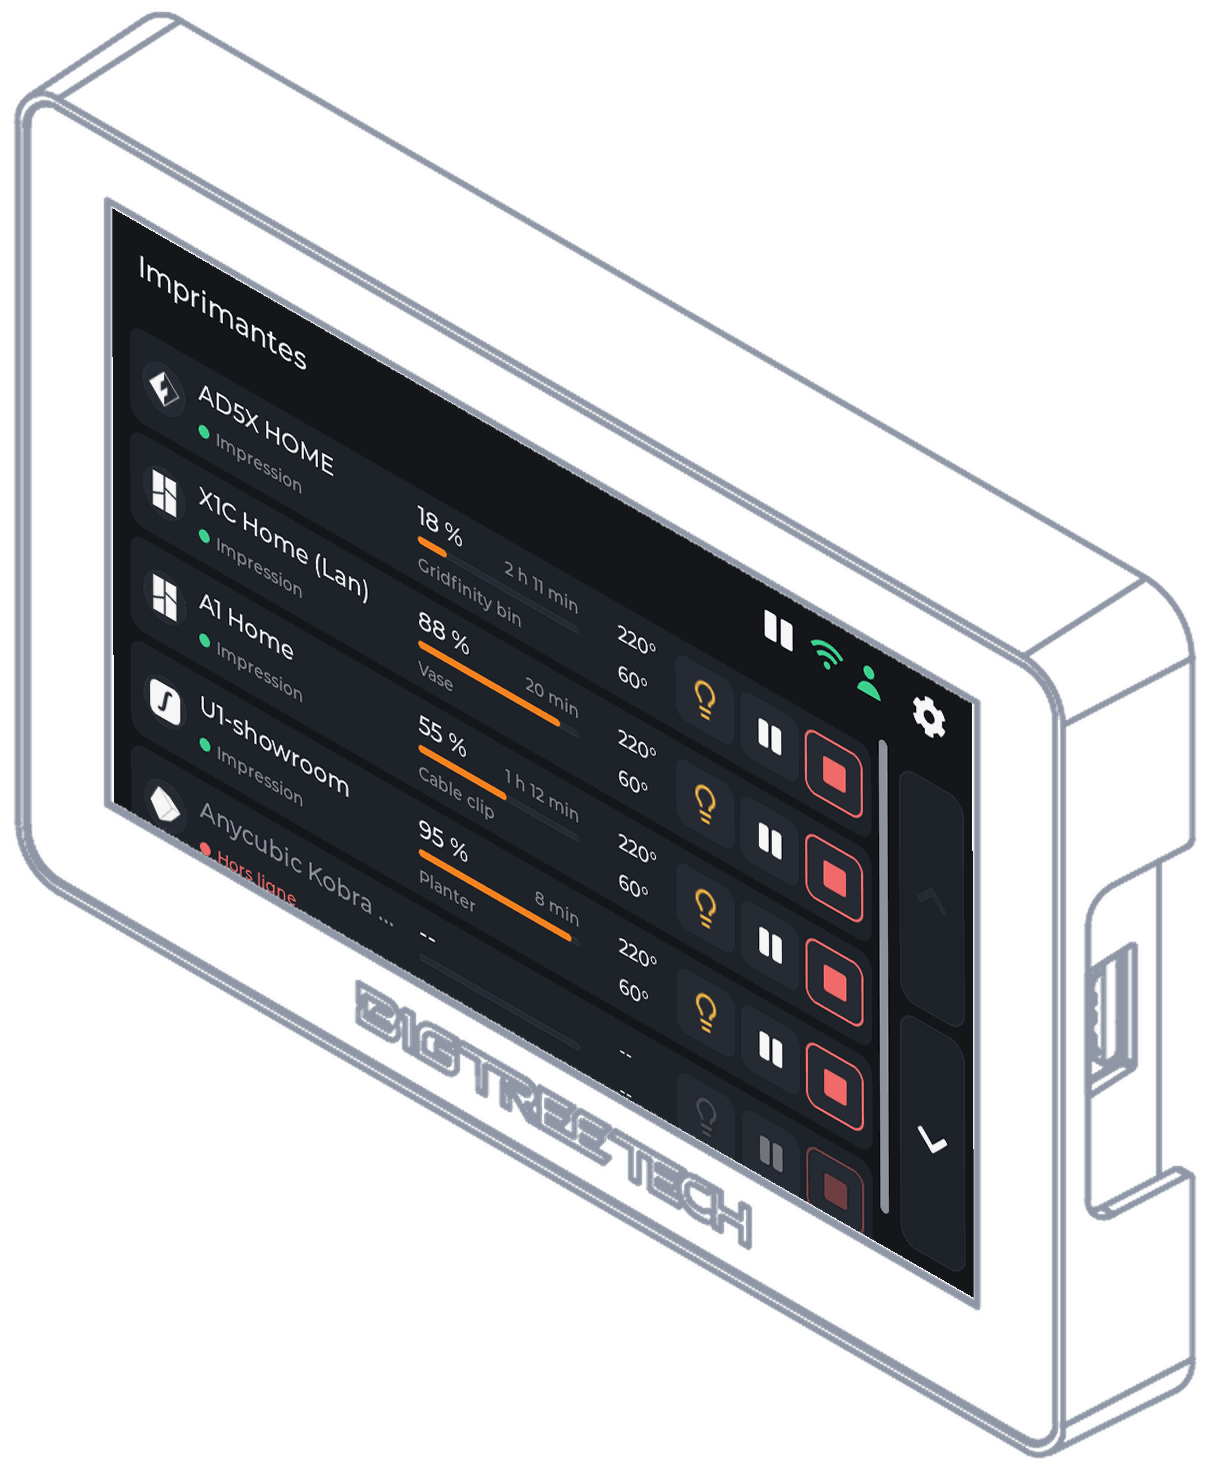
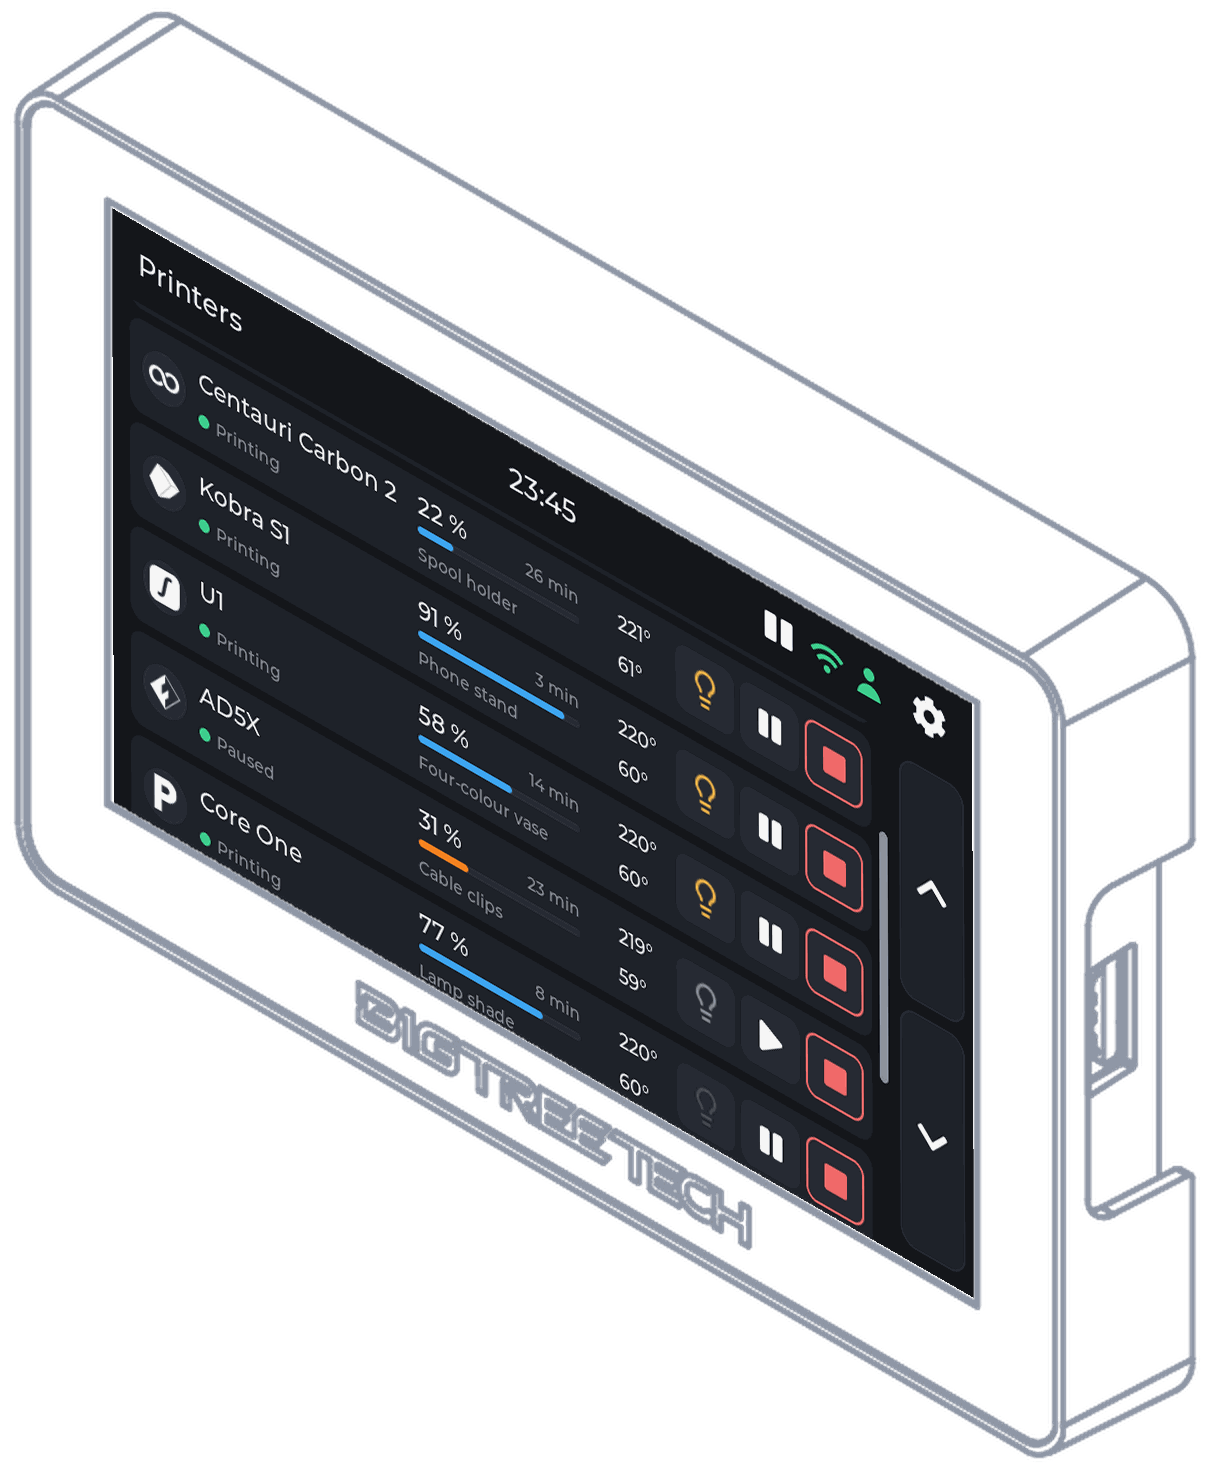
Every picture of the screen taken anew, in English, in Demo mode

diff --git a/README.md b/README.md
@@ -107,16 +107,25 @@ browser, and two minutes later it shows your printers.
   </tr>
   <tr>
     <td><img src="assets/screens/printer-snapmaker-u1.png" alt="Full view of a Snapmaker U1 printing: progress, layers, four tool heads with the active one ringed, and its four filaments"></td>
-    <td><img src="assets/screens/printer-flashforge-ad5x.png" alt="Full view of a FlashForge AD5X printing: progress, layers, its external spool and its four-slot material station"></td>
+    <td><img src="assets/screens/printer-flashforge-ad5x.png" alt="Full view of a FlashForge AD5X paused: its progress ring in orange, its external spool and its four-slot material station"></td>
   </tr>
   <tr>
     <td><b>Snapmaker U1</b>: four tool heads, the active one ringed.</td>
-    <td><b>FlashForge AD5X</b>: external spool and material station.</td>
+    <td><b>FlashForge AD5X</b>: paused, in orange; external spool and station.</td>
+  </tr>
+  <tr>
+    <td><img src="assets/screens/printer-bambu-x1c.png" alt="Full view of a Bambu Lab X1 Carbon printing: progress ring in blue, layers, time left, estimated end, and its AMS"></td>
+    <td><img src="assets/screens/printer-creality-k2.png" alt="Full view of a Creality K2 Plus printing: progress ring in blue, layers, time left, estimated end, and its CFS"></td>
+  </tr>
+  <tr>
+    <td><b>Bambu Lab X1 Carbon</b>: its AMS, the slot in use ringed.</td>
+    <td><b>Creality K2 Plus</b>: its CFS, the slot in use ringed.</td>
   </tr>
 </table>
 
-<sub>Real printers, read live by Tiger Touch; for these pictures their progress,
-file names and times were filled in by a bench build, since they were idle.</sub>
+<sub>Pictures taken in the screen's <b>Demo mode</b> (<i>Settings > Demo mode</i>), which
+shows ten made-up printers of every brand printing, exactly as real ones look:
+blue while a print runs, orange when it is paused, green when it is done.</sub>
 
 ## Printers
 

diff --git a/WORKLOG.md b/WORKLOG.md
@@ -14,6 +14,7 @@ reset to this header at each release.
 ## Changed
 - Settings shows the account's display name, as TigerScale V3 does, instead of its e-mail.
 - One header on every screen: 64 px, no rule under it, everything centred on the same line.
+- Every picture of the screen (README, docs, installer) taken anew, in English, in Demo mode; the gallery gains the X1 Carbon and the K2 Plus.
 - Progress colours: blue printing, orange paused, green finished, red on a fault (ring, card, list bar).
 - Stop opens a confirmation (Cancel / Stop) instead of a 1.5 s hold.
 - The clock also sits in the middle of the Settings header and of a printer's full view.

diff --git a/CHANGELOG.md b/CHANGELOG.md
@@ -39,6 +39,10 @@ they were written.
   button to tigersystem.io, in the eleven languages.
 
 ### Changed
+- **Every picture of the screen**, in the README, `docs/OTA.md`, the device
+  drawings and the installer page, taken anew in English in Demo mode, with the
+  new header, the clock and the progress colours; the README gallery gains the
+  X1 Carbon with its AMS and the K2 Plus with its CFS.
 - **Settings shows the account's name, not its e-mail**, as TigerScale V3 does:
   the `displayName` of `users/{uid}`, read with the country the device already
   reads, kept across restarts, forgotten when another account signs in. The

diff --git a/docs/OTA.md b/docs/OTA.md
@@ -72,7 +72,7 @@ the same way:
 
 <p align="center">
   <img src="../assets/screens/update-confirm.png" alt="Confirm update? About 2 minutes. Do not power off the Tiger Touch." width="380">
-  <img src="../assets/screens/update-ring.png" alt="The update ring at 20 percent, a green arrow in the middle, Do not power off" width="380">
+  <img src="../assets/screens/update-ring.png" alt="The update ring at 34 percent, a green arrow in the middle, Installing, Do not power off" width="380">
 </p>
 
 Between checks the settings menu shows a newer version in orange on the
